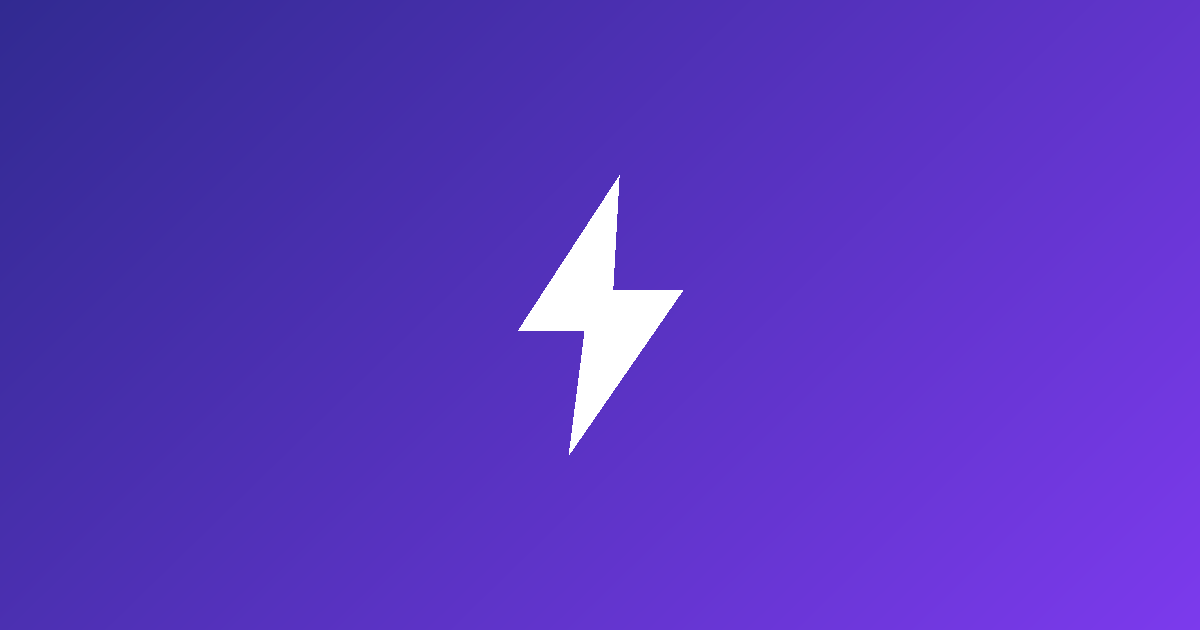
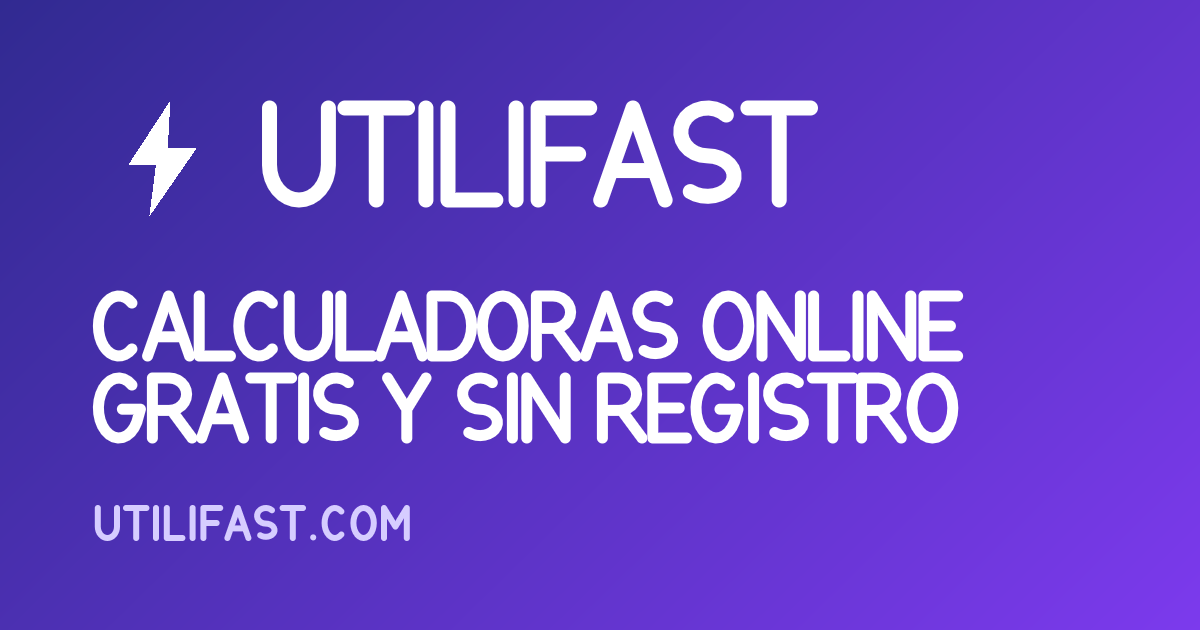
Imagen para compartir con marca y tipos de IVA de otros paises

Changed region(s): [[0.0617, 0.1508, 0.8017, 0.7238], [0.0617, 0.7841, 0.3392, 0.8746], [0.0925, 0.181, 0.1542, 0.3317]]

diff --git a/src/views/iva.js b/src/views/iva.js
@@ -20,7 +20,25 @@ const TIPOS_IVA = [
 ];
 
 // Recargo de equivalencia asociado a cada tipo (régimen especial de minoristas).
+// Es un régimen exclusivamente español: con un tipo de otro país da 0, que es
+// justo lo correcto, y por eso las búsquedas se hacen con `?? 0`.
 const RECARGO = { 21: 5.2, 10: 1.4, 4: 0.5, 0: 0 };
+
+/**
+ * Tipos generales de otros países hispanohablantes, verificados para 2026.
+ *
+ * Van como fila secundaria y no como tarjetas: esta herramienta es de IVA
+ * español y es ahí donde compite. Pero el 18 % de las impresiones del sitio
+ * viene de Latinoamérica, y quien llega desde México necesitaba saber que el
+ * campo «Otro tipo» aceptaba su 16 % en vez de marcharse.
+ */
+const TIPOS_PAIS = [
+  { pais: 'México', valor: 16 },
+  { pais: 'Colombia', valor: 19 },
+  { pais: 'Chile', valor: 19 },
+  { pais: 'Perú', valor: 18, nota: 'IGV' },
+  { pais: 'Argentina', valor: 21 },
+];
 
 const TIPOS_IRPF = [
   { valor: 0, label: 'Sin retención' },
@@ -92,6 +110,20 @@ export function render() {
               <input class="input no-spin !py-1.5 pr-8 text-sm" id="iva" type="number"
                      inputmode="decimal" min="0" max="100" step="0.1" value="${DEFAULTS.iva}" />
               <span class="input-affix !pr-3 !text-2xs">%</span>
+            </div>
+          </div>
+
+          <div class="mt-3 border-t border-line pt-3">
+            <p class="text-xs text-content-subtle" id="otros-paises">Tipo general en otros países</p>
+            <div class="mt-2 flex flex-wrap gap-2" role="group" aria-labelledby="otros-paises">
+              ${TIPOS_PAIS.map(
+                (p) => `
+                <button type="button" class="chip !py-1 !text-xs" data-tipo-iva="${p.valor}">
+                  ${p.pais} <span class="font-semibold tabular-nums">${p.valor} %</span>${
+                  p.nota ? `<span class="text-content-subtle"> ${p.nota}</span>` : ''
+                }
+                </button>`
+              ).join('')}
             </div>
           </div>
         </div>
@@ -259,7 +291,11 @@ export function render() {
       },
       {
         q: '¿Puedo usar un tipo distinto a los oficiales?',
-        a: 'Sí. El campo «Otro tipo» acepta cualquier porcentaje, útil para operaciones con IVA de otros países o para simulaciones. El recargo de equivalencia solo tiene tipo definido para el 21 %, 10 % y 4 %.',
+        a: 'Sí. El campo «Otro tipo» acepta cualquier porcentaje, útil para simulaciones o para operaciones con impuestos de otros países. El recargo de equivalencia solo tiene tipo definido para el 21 %, 10 % y 4 %.',
+      },
+      {
+        q: '¿Sirve para calcular el IVA de México, Colombia o Argentina?',
+        a: 'Sí. Debajo del campo «Otro tipo» tienes los tipos generales de México (16 %), Colombia (19 %), Chile (19 %), Perú (18 %, allí llamado IGV) y Argentina (21 %). La fórmula es idéntica en todos: para quitar el impuesto de un precio que ya lo incluye se divide entre 1 más el tipo, nunca se resta el porcentaje. Lo que no se aplica fuera de España es el recargo de equivalencia, que es un régimen español para minoristas.',
       },
       {
         q: '¿Se guardan los importes que introduzco?',

diff --git a/CLAUDE.md b/CLAUDE.md
@@ -140,6 +140,19 @@ comentario HTML del propio marcado cierra la cadena y rompe el módulo entero co
 `SyntaxError` que solo se ve en consola, porque el router lo captura. En los comentarios dentro del
 marcado, las clases van sin comillas de código.
 
+**La imagen para compartir se dibuja píxel a píxel, sin librerías.** `scripts/gen-og.mjs` escribe el
+PNG a mano y el texto sale de `scripts/lib/trazos.mjs`, una tipografía de **polilíneas** que se pinta
+midiendo la distancia de cada píxel al trazo más cercano — eso da el antialiasing gratis, sin
+supermuestrear. **Solo hay mayúsculas**, y las que hacían falta: pedir una letra que no existe
+**lanza un error** con la lista de disponibles, porque antes se descartaba en silencio y la palabra
+salía mutilada. Los textos se eligen con ese alfabeto y sin acentos.
+
+Cuidado con el signo de los ángulos: **la Y va hacia abajo**, así que un arco de 180° a 360° pasa por
+*arriba*, no por abajo. Ese error convirtió la U en una «н», la C en un «)» y la S en una «C», y solo
+se ve mirando el PNG. **Después de tocar un glifo hay que abrir la imagen**, no basta con que el
+script no falle. El generador comprueba además que cada línea cabe en el margen y aborta si no.
+`npm run og` se ejecuta a mano y el PNG se versiona, así que **esto no corre en el despliegue**.
+
 **Cifras del artículo que contradicen a la herramienta.** Pasó una vez: el texto de hipoteca decía
 «unos 15.000 €» y la calculadora daba 12.744 €. Por eso las matemáticas no triviales viven en
 `src/calc/` (`hipoteca`, `gasolina`, `neumaticos`, `interes`) y las importan **tanto la vista como el
@@ -244,18 +257,20 @@ Dos correcciones que costó descubrir y conviene no deshacer:
   *amortizar hipoteca o invertir calculadora*, y se responde combinando `calc/hipoteca` con
   `calc/interes`).
 
-- **Internacionalización, pedida el 23 de agosto de 2026.** El 18 % de las impresiones viene de
-  Latinoamérica y un 11 % de EE. UU. Hecho el 24 de agosto: **unidades de consumo y moneda en
-  `/gasolina`** (ver más abajo en las trampas). Queda pendiente:
-  **tipos de IVA de otros países** — la herramienta **ya acepta cualquier tipo** en el campo «Otro
-  tipo», solo faltan presets (México 16, Colombia 19, Perú 18, Chile 19, Argentina 21). Ojo:
-  EE. UU. no tiene IVA sino *sales tax*, que varía por estado y **se suma** en vez de venir incluido;
-  no se puede mapear a esta herramienta y forzarlo daría resultados falsos.
+- **Internacionalización, pedida el 23 de agosto de 2026 y cerrada el 24.** El 18 % de las
+  impresiones viene de Latinoamérica y un 11 % de EE. UU. Hechas las dos partes: **unidades de
+  consumo y moneda en `/gasolina`** y **tipos de otros países en `/iva`** (`TIPOS_PAIS`, verificados
+  para 2026: México 16, Colombia 19, Chile 19, Perú 18 —allí IGV—, Argentina 21). Van como fila
+  secundaria de chips, no como tarjetas: la herramienta es de IVA español y es ahí donde compite.
+
+  **EE. UU. no tiene IVA sino *sales tax***, que varía por estado y **se suma** en vez de venir
+  incluido: no se puede mapear a esta herramienta y forzarlo daría resultados falsos. El recargo de
+  equivalencia es igualmente español y con un tipo extranjero da 0 — correcto, y por eso las
+  búsquedas en `RECARGO` van con `?? 0`.
 
   Contrapeso a tener presente: **España es el 63 % de las impresiones** y el RPM publicitario español
   multiplica varias veces al latinoamericano. Esto se hizo porque dar resultados erróneos es
   inaceptable, no porque el tráfico latino vaya a pagar las facturas.
-- `public/og-default.png` es un marcador generado sin texto; sustituir por un diseño con la marca.
 - AdSense: rellenar `adsense` y `adSlots` en `src/config.js` y todo se activa solo, incluido
   `ads.txt` y los huecos, que hoy no se emiten.
 
